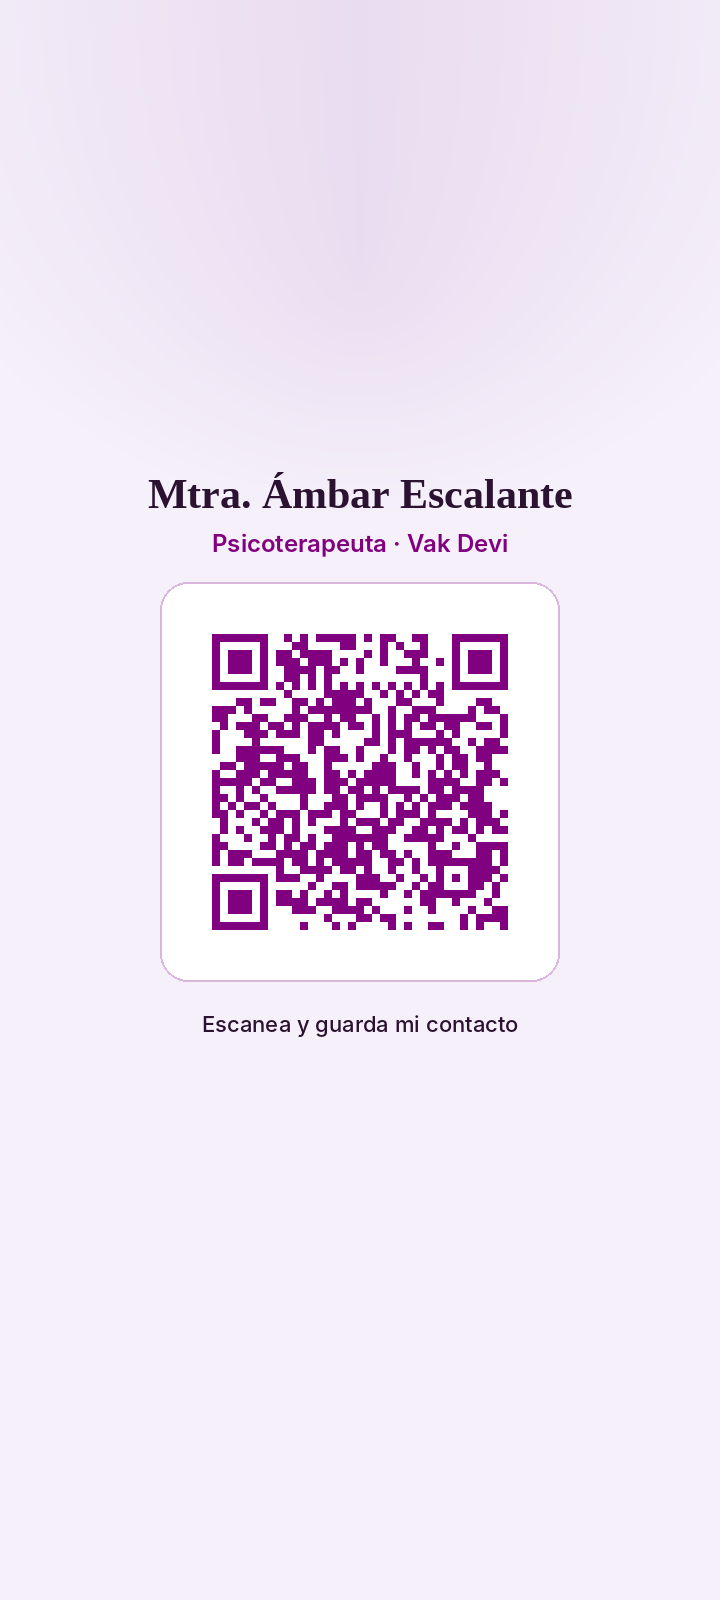
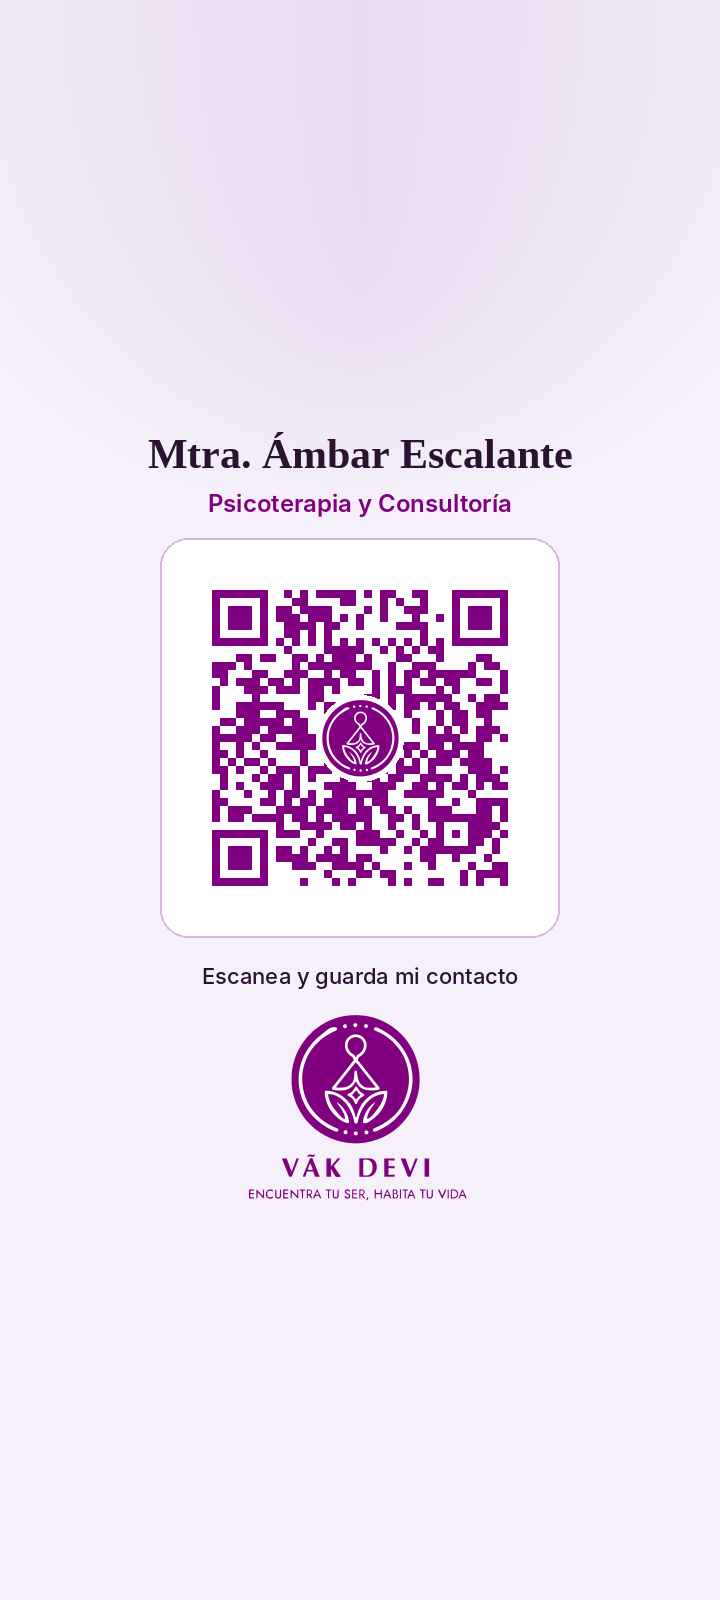
Texto: Psicoterapia y Consultoría

Changed region(s): [[0.2139, 0.25, 0.7944, 0.75], [0.7639, 0.3438, 0.7944, 0.375], [0.2139, 0.3438, 0.2444, 0.375]]

diff --git a/site/index.html b/site/index.html
@@ -4,11 +4,11 @@
 <meta charset="utf-8">
 <meta name="viewport" content="width=device-width, initial-scale=1, viewport-fit=cover">
 <title>Mtra. Ámbar Escalante · Vak Devi</title>
-<meta name="description" content="Psicoterapeuta · Psicoterapia Ericksoniana y desarrollo integral. Sesiones virtuales. Guarda mi contacto.">
+<meta name="description" content="Psicoterapia y Consultoría · Sesiones virtuales. Guarda mi contacto.">
 <meta name="theme-color" content="#F5F0FA">
 <meta property="og:type" content="profile">
 <meta property="og:title" content="Mtra. Ámbar Escalante · Vak Devi">
-<meta property="og:description" content="Psicoterapia Ericksoniana y desarrollo integral · Sesiones virtuales">
+<meta property="og:description" content="Psicoterapia y Consultoría · Sesiones virtuales">
 <meta property="og:url" content="https://contacto.vakdevi-psicoterapia.com/">
 <meta property="og:image" content="https://contacto.vakdevi-psicoterapia.com/ambar.jpg">
 <link rel="icon" type="image/png" href="/favicon.png">
@@ -41,7 +41,6 @@
   .avatar img{width:100%;height:100%;border-radius:50%;object-fit:cover;display:block;border:4px solid var(--lavender)}
   h1{font-family:Georgia,"Times New Roman",serif;font-size:30px;font-weight:700;letter-spacing:-.01em;margin-top:20px;line-height:1.15}
   .role{margin-top:6px;font-size:16px;font-weight:650;color:var(--purple)}
-  .tagline{margin-top:4px;font-size:16px;color:var(--ink);line-height:1.4}
   .cedula{margin-top:6px;font-size:13px;color:var(--muted);letter-spacing:.02em}
   .place{margin-top:10px;font-size:14px;color:var(--muted);display:flex;gap:6px;align-items:center;justify-content:center}
   .place svg{width:16px;height:16px}
@@ -81,8 +80,7 @@
   <div class="avatar"><img src="/ambar.jpg" alt="Foto de la Mtra. Ámbar Escalante" width="600" height="600"></div>
 
   <h1>Mtra. Ámbar Escalante</h1>
-  <p class="role">Psicoterapeuta</p>
-  <p class="tagline">Psicoterapia Ericksoniana y desarrollo integral</p>
+  <p class="role">Psicoterapia y Consultoría</p>
   <p class="cedula">Céd. Prof. 15430744</p>
   <p class="place">
     <svg viewBox="0 0 24 24" fill="none" stroke="currentColor" stroke-width="2" stroke-linecap="round" stroke-linejoin="round" aria-hidden="true"><rect x="2" y="6" width="14" height="12" rx="2"/><path d="m16 10 6-3v10l-6-3"/></svg>
@@ -126,7 +124,7 @@
 <div class="toast" id="toast">Enlace copiado</div>
 <script>
   document.getElementById('share').addEventListener('click', async () => {
-    const data = { title: 'Mtra. Ámbar Escalante · Vak Devi', text: 'Contacto de la Mtra. Ámbar Escalante (Vak Devi) · Psicoterapia Ericksoniana y desarrollo integral', url: 'https://contacto.vakdevi-psicoterapia.com/' };
+    const data = { title: 'Mtra. Ámbar Escalante · Vak Devi', text: 'Contacto de la Mtra. Ámbar Escalante (Vak Devi) · Psicoterapia y Consultoría · Sesiones virtuales', url: 'https://contacto.vakdevi-psicoterapia.com/' };
     try {
       if (navigator.share) { await navigator.share(data); return; }
       await navigator.clipboard.writeText(data.url);
